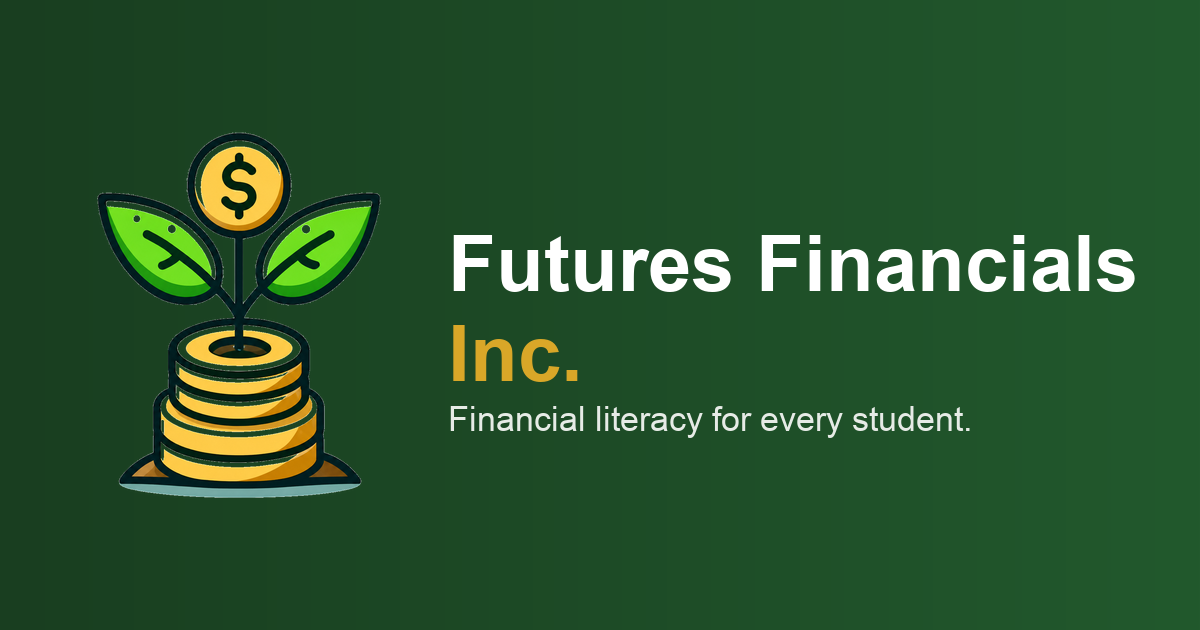
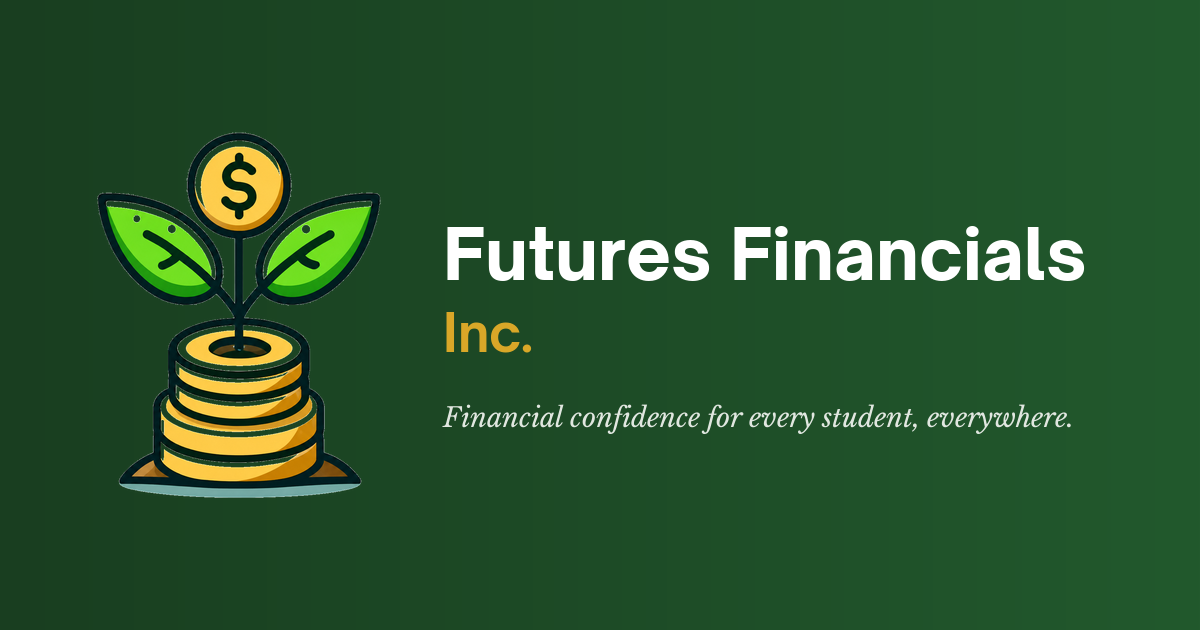
Fill in meta descriptions, restyle OG share image, add robots.txt/sitemap
Replace the [META DESCRIPTION PLACEHOLDER] text on every page with a
real description grounded in that page's existing copy (used for
meta description, og:description, and twitter:description alike).

Rebuild the social share image using the site's actual brand fonts
(Open Sauce One for the wordmark, Libre Baskerville italic for the
tagline) instead of a generic system font, so link previews in
Messages/iMessage/social apps match the site's look.

Add robots.txt and sitemap.xml (16 clean-URL pages) since they were
missing and are standard for a production site on a real domain.

Changed region(s): [[0.37, 0.3619, 0.9558, 0.6032], [0.37, 0.6333, 0.8942, 0.6937]]

diff --git a/about-us.html b/about-us.html
@@ -4,7 +4,7 @@
   <meta charset="UTF-8" />
   <meta name="viewport" content="width=device-width, initial-scale=1.0" />
   <title>Futures Financials Inc. — About Us</title>
-  <meta name="description" content="[META DESCRIPTION PLACEHOLDER]" />
+  <meta name="description" content="Futures Financials believes in the power of youth to lead change. Learn how our student-run nonprofit is making financial literacy accessible to every student." />
   <link rel="stylesheet" href="css/styles.css" />
 
   <!-- Favicons -->
@@ -21,7 +21,7 @@
   <meta property="og:type" content="website" />
   <meta property="og:site_name" content="Futures Financials Inc." />
   <meta property="og:title" content="Futures Financials Inc. — About Us" />
-  <meta property="og:description" content="[META DESCRIPTION PLACEHOLDER]" />
+  <meta property="og:description" content="Futures Financials believes in the power of youth to lead change. Learn how our student-run nonprofit is making financial literacy accessible to every student." />
   <meta property="og:image" content="https://futuresfinancials.org/images/og-image.png" />
   <meta property="og:image:width" content="1200" />
   <meta property="og:image:height" content="630" />
@@ -30,7 +30,7 @@
   <!-- Twitter -->
   <meta name="twitter:card" content="summary_large_image" />
   <meta name="twitter:title" content="Futures Financials Inc. — About Us" />
-  <meta name="twitter:description" content="[META DESCRIPTION PLACEHOLDER]" />
+  <meta name="twitter:description" content="Futures Financials believes in the power of youth to lead change. Learn how our student-run nonprofit is making financial literacy accessible to every student." />
   <meta name="twitter:image" content="https://futuresfinancials.org/images/og-image.png" />
 
   <!-- Organization structured data (for Google logo in search results) -->

diff --git a/impact.html b/impact.html
@@ -4,7 +4,7 @@
   <meta charset="UTF-8" />
   <meta name="viewport" content="width=device-width, initial-scale=1.0" />
   <title>Futures Financials Inc. — Impact</title>
-  <meta name="description" content="[META DESCRIPTION PLACEHOLDER]" />
+  <meta name="description" content="Futures Financials' impact: 10,000+ students reached, 50+ schools and libraries, 100+ teach-in sessions, and 18 chapters across 7 countries since 2022." />
   <link rel="stylesheet" href="css/styles.css" />
 
   <!-- Favicons -->
@@ -21,7 +21,7 @@
   <meta property="og:type" content="website" />
   <meta property="og:site_name" content="Futures Financials Inc." />
   <meta property="og:title" content="Futures Financials Inc. — Impact" />
-  <meta property="og:description" content="[META DESCRIPTION PLACEHOLDER]" />
+  <meta property="og:description" content="Futures Financials' impact: 10,000+ students reached, 50+ schools and libraries, 100+ teach-in sessions, and 18 chapters across 7 countries since 2022." />
   <meta property="og:image" content="https://futuresfinancials.org/images/og-image.png" />
   <meta property="og:image:width" content="1200" />
   <meta property="og:image:height" content="630" />
@@ -30,7 +30,7 @@
   <!-- Twitter -->
   <meta name="twitter:card" content="summary_large_image" />
   <meta name="twitter:title" content="Futures Financials Inc. — Impact" />
-  <meta name="twitter:description" content="[META DESCRIPTION PLACEHOLDER]" />
+  <meta name="twitter:description" content="Futures Financials' impact: 10,000+ students reached, 50+ schools and libraries, 100+ teach-in sessions, and 18 chapters across 7 countries since 2022." />
   <meta name="twitter:image" content="https://futuresfinancials.org/images/og-image.png" />
 
   <!-- Organization structured data (for Google logo in search results) -->

diff --git a/index.html b/index.html
@@ -4,7 +4,7 @@
   <meta charset="UTF-8" />
   <meta name="viewport" content="width=device-width, initial-scale=1.0" />
   <title>Futures Financials Inc. — Home</title>
-  <meta name="description" content="[META DESCRIPTION PLACEHOLDER]" />
+  <meta name="description" content="Futures Financials Inc. is a student-led nonprofit delivering hands-on financial literacy education to 10,000+ students across 18 chapters in 7 countries." />
   <link rel="stylesheet" href="css/styles.css" />
 
   <!-- Favicons -->
@@ -21,7 +21,7 @@
   <meta property="og:type" content="website" />
   <meta property="og:site_name" content="Futures Financials Inc." />
   <meta property="og:title" content="Futures Financials Inc. — Home" />
-  <meta property="og:description" content="[META DESCRIPTION PLACEHOLDER]" />
+  <meta property="og:description" content="Futures Financials Inc. is a student-led nonprofit delivering hands-on financial literacy education to 10,000+ students across 18 chapters in 7 countries." />
   <meta property="og:image" content="https://futuresfinancials.org/images/og-image.png" />
   <meta property="og:image:width" content="1200" />
   <meta property="og:image:height" content="630" />
@@ -30,7 +30,7 @@
   <!-- Twitter -->
   <meta name="twitter:card" content="summary_large_image" />
   <meta name="twitter:title" content="Futures Financials Inc. — Home" />
-  <meta name="twitter:description" content="[META DESCRIPTION PLACEHOLDER]" />
+  <meta name="twitter:description" content="Futures Financials Inc. is a student-led nonprofit delivering hands-on financial literacy education to 10,000+ students across 18 chapters in 7 countries." />
   <meta name="twitter:image" content="https://futuresfinancials.org/images/og-image.png" />
 
   <!-- Organization structured data (for Google logo in search results) -->

diff --git a/media.html b/media.html
@@ -4,7 +4,7 @@
   <meta charset="UTF-8" />
   <meta name="viewport" content="width=device-width, initial-scale=1.0" />
   <title>Futures Financials Inc. — In the News</title>
-  <meta name="description" content="[META DESCRIPTION PLACEHOLDER]" />
+  <meta name="description" content="Media coverage of Futures Financials Inc., from national financial education organizations to local TV, podcasts, and press features." />
   <link rel="stylesheet" href="css/styles.css" />
 
   <!-- Favicons -->
@@ -21,7 +21,7 @@
   <meta property="og:type" content="website" />
   <meta property="og:site_name" content="Futures Financials Inc." />
   <meta property="og:title" content="Futures Financials Inc. — In the News" />
-  <meta property="og:description" content="[META DESCRIPTION PLACEHOLDER]" />
+  <meta property="og:description" content="Media coverage of Futures Financials Inc., from national financial education organizations to local TV, podcasts, and press features." />
   <meta property="og:image" content="https://futuresfinancials.org/images/og-image.png" />
   <meta property="og:image:width" content="1200" />
   <meta property="og:image:height" content="630" />
@@ -30,7 +30,7 @@
   <!-- Twitter -->
   <meta name="twitter:card" content="summary_large_image" />
   <meta name="twitter:title" content="Futures Financials Inc. — In the News" />
-  <meta name="twitter:description" content="[META DESCRIPTION PLACEHOLDER]" />
+  <meta name="twitter:description" content="Media coverage of Futures Financials Inc., from national financial education organizations to local TV, podcasts, and press features." />
   <meta name="twitter:image" content="https://futuresfinancials.org/images/og-image.png" />
 
   <!-- Organization structured data (for Google logo in search results) -->

diff --git a/meet-the-team.html b/meet-the-team.html
@@ -4,7 +4,7 @@
   <meta charset="UTF-8" />
   <meta name="viewport" content="width=device-width, initial-scale=1.0" />
   <title>Futures Financials Inc. — Meet the Executive Team</title>
-  <meta name="description" content="[META DESCRIPTION PLACEHOLDER]" />
+  <meta name="description" content="Meet the youth-led executive team behind Futures Financials, the Founding Officers who built the nonprofit's curriculum, partnerships, and global chapters." />
   <link rel="stylesheet" href="css/styles.css" />
 
   <!-- Favicons -->
@@ -21,7 +21,7 @@
   <meta property="og:type" content="website" />
   <meta property="og:site_name" content="Futures Financials Inc." />
   <meta property="og:title" content="Futures Financials Inc. — Meet the Executive Team" />
-  <meta property="og:description" content="[META DESCRIPTION PLACEHOLDER]" />
+  <meta property="og:description" content="Meet the youth-led executive team behind Futures Financials, the Founding Officers who built the nonprofit's curriculum, partnerships, and global chapters." />
   <meta property="og:image" content="https://futuresfinancials.org/images/og-image.png" />
   <meta property="og:image:width" content="1200" />
   <meta property="og:image:height" content="630" />
@@ -30,7 +30,7 @@
   <!-- Twitter -->
   <meta name="twitter:card" content="summary_large_image" />
   <meta name="twitter:title" content="Futures Financials Inc. — Meet the Executive Team" />
-  <meta name="twitter:description" content="[META DESCRIPTION PLACEHOLDER]" />
+  <meta name="twitter:description" content="Meet the youth-led executive team behind Futures Financials, the Founding Officers who built the nonprofit's curriculum, partnerships, and global chapters." />
   <meta name="twitter:image" content="https://futuresfinancials.org/images/og-image.png" />
 
   <!-- Organization structured data (for Google logo in search results) -->

diff --git a/our-partners.html b/our-partners.html
@@ -4,7 +4,7 @@
   <meta charset="UTF-8" />
   <meta name="viewport" content="width=device-width, initial-scale=1.0" />
   <title>Futures Financials Inc. — Our Partners</title>
-  <meta name="description" content="[META DESCRIPTION PLACEHOLDER]" />
+  <meta name="description" content="Futures Financials partners with universities, community banks, and national financial education nonprofits to expand access to financial literacy." />
   <link rel="stylesheet" href="css/styles.css" />
 
   <!-- Favicons -->
@@ -21,7 +21,7 @@
   <meta property="og:type" content="website" />
   <meta property="og:site_name" content="Futures Financials Inc." />
   <meta property="og:title" content="Futures Financials Inc. — Our Partners" />
-  <meta property="og:description" content="[META DESCRIPTION PLACEHOLDER]" />
+  <meta property="og:description" content="Futures Financials partners with universities, community banks, and national financial education nonprofits to expand access to financial literacy." />
   <meta property="og:image" content="https://futuresfinancials.org/images/og-image.png" />
   <meta property="og:image:width" content="1200" />
   <meta property="og:image:height" content="630" />
@@ -30,7 +30,7 @@
   <!-- Twitter -->
   <meta name="twitter:card" content="summary_large_image" />
   <meta name="twitter:title" content="Futures Financials Inc. — Our Partners" />
-  <meta name="twitter:description" content="[META DESCRIPTION PLACEHOLDER]" />
+  <meta name="twitter:description" content="Futures Financials partners with universities, community banks, and national financial education nonprofits to expand access to financial literacy." />
   <meta name="twitter:image" content="https://futuresfinancials.org/images/og-image.png" />
 
   <!-- Organization structured data (for Google logo in search results) -->

diff --git a/our-story.html b/our-story.html
@@ -4,7 +4,7 @@
   <meta charset="UTF-8" />
   <meta name="viewport" content="width=device-width, initial-scale=1.0" />
   <title>Futures Financials Inc. — Our Story</title>
-  <meta name="description" content="[META DESCRIPTION PLACEHOLDER]" />
+  <meta name="description" content="Futures Financials began at a kitchen table in 2022 with one student who refused to stop asking questions about money. Read how it grew from there." />
   <link rel="stylesheet" href="css/styles.css" />
 
   <!-- Favicons -->
@@ -21,7 +21,7 @@
   <meta property="og:type" content="website" />
   <meta property="og:site_name" content="Futures Financials Inc." />
   <meta property="og:title" content="Futures Financials Inc. — Our Story" />
-  <meta property="og:description" content="[META DESCRIPTION PLACEHOLDER]" />
+  <meta property="og:description" content="Futures Financials began at a kitchen table in 2022 with one student who refused to stop asking questions about money. Read how it grew from there." />
   <meta property="og:image" content="https://futuresfinancials.org/images/og-image.png" />
   <meta property="og:image:width" content="1200" />
   <meta property="og:image:height" content="630" />
@@ -30,7 +30,7 @@
   <!-- Twitter -->
   <meta name="twitter:card" content="summary_large_image" />
   <meta name="twitter:title" content="Futures Financials Inc. — Our Story" />
-  <meta name="twitter:description" content="[META DESCRIPTION PLACEHOLDER]" />
+  <meta name="twitter:description" content="Futures Financials began at a kitchen table in 2022 with one student who refused to stop asking questions about money. Read how it grew from there." />
   <meta name="twitter:image" content="https://futuresfinancials.org/images/og-image.png" />
 
   <!-- Organization structured data (for Google logo in search results) -->

diff --git a/programs.html b/programs.html
@@ -4,7 +4,7 @@
   <meta charset="UTF-8" />
   <meta name="viewport" content="width=device-width, initial-scale=1.0" />
   <title>Futures Financials Inc. — Programs</title>
-  <meta name="description" content="[META DESCRIPTION PLACEHOLDER]" />
+  <meta name="description" content="Explore Futures Financials' three flagship programs, built to turn students into financially confident decision-makers through hands-on, peer-led education." />
   <link rel="stylesheet" href="css/styles.css" />
 
   <!-- Favicons -->
@@ -21,7 +21,7 @@
   <meta property="og:type" content="website" />
   <meta property="og:site_name" content="Futures Financials Inc." />
   <meta property="og:title" content="Futures Financials Inc. — Programs" />
-  <meta property="og:description" content="[META DESCRIPTION PLACEHOLDER]" />
+  <meta property="og:description" content="Explore Futures Financials' three flagship programs, built to turn students into financially confident decision-makers through hands-on, peer-led education." />
   <meta property="og:image" content="https://futuresfinancials.org/images/og-image.png" />
   <meta property="og:image:width" content="1200" />
   <meta property="og:image:height" content="630" />
@@ -30,7 +30,7 @@
   <!-- Twitter -->
   <meta name="twitter:card" content="summary_large_image" />
   <meta name="twitter:title" content="Futures Financials Inc. — Programs" />
-  <meta name="twitter:description" content="[META DESCRIPTION PLACEHOLDER]" />
+  <meta name="twitter:description" content="Explore Futures Financials' three flagship programs, built to turn students into financially confident decision-makers through hands-on, peer-led education." />
   <meta name="twitter:image" content="https://futuresfinancials.org/images/og-image.png" />
 
   <!-- Organization structured data (for Google logo in search results) -->

diff --git a/start-a-chapter.html b/start-a-chapter.html
@@ -4,7 +4,7 @@
   <meta charset="UTF-8" />
   <meta name="viewport" content="width=device-width, initial-scale=1.0" />
   <title>Futures Financials Inc. — Start a Chapter</title>
-  <meta name="description" content="[META DESCRIPTION PLACEHOLDER]" />
+  <meta name="description" content="Start a Futures Financials chapter in your community: a student-run local branch dedicated to expanding financial literacy where you live." />
   <link rel="stylesheet" href="css/styles.css" />
 
   <!-- Favicons -->
@@ -21,7 +21,7 @@
   <meta property="og:type" content="website" />
   <meta property="og:site_name" content="Futures Financials Inc." />
   <meta property="og:title" content="Futures Financials Inc. — Start a Chapter" />
-  <meta property="og:description" content="[META DESCRIPTION PLACEHOLDER]" />
+  <meta property="og:description" content="Start a Futures Financials chapter in your community: a student-run local branch dedicated to expanding financial literacy where you live." />
   <meta property="og:image" content="https://futuresfinancials.org/images/og-image.png" />
   <meta property="og:image:width" content="1200" />
   <meta property="og:image:height" content="630" />
@@ -30,7 +30,7 @@
   <!-- Twitter -->
   <meta name="twitter:card" content="summary_large_image" />
   <meta name="twitter:title" content="Futures Financials Inc. — Start a Chapter" />
-  <meta name="twitter:description" content="[META DESCRIPTION PLACEHOLDER]" />
+  <meta name="twitter:description" content="Start a Futures Financials chapter in your community: a student-run local branch dedicated to expanding financial literacy where you live." />
   <meta name="twitter:image" content="https://futuresfinancials.org/images/og-image.png" />
 
   <!-- Organization structured data (for Google logo in search results) -->

diff --git a/success-stories.html b/success-stories.html
@@ -4,7 +4,7 @@
   <meta charset="UTF-8" />
   <meta name="viewport" content="width=device-width, initial-scale=1.0" />
   <title>Futures Financials Inc. — Success Stories</title>
-  <meta name="description" content="[META DESCRIPTION PLACEHOLDER]" />
+  <meta name="description" content="Real students share how Futures Financials' financial literacy programs changed what they believe is possible for their futures, in their own words." />
   <link rel="stylesheet" href="css/styles.css" />
 
   <!-- Favicons -->
@@ -21,7 +21,7 @@
   <meta property="og:type" content="website" />
   <meta property="og:site_name" content="Futures Financials Inc." />
   <meta property="og:title" content="Futures Financials Inc. — Success Stories" />
-  <meta property="og:description" content="[META DESCRIPTION PLACEHOLDER]" />
+  <meta property="og:description" content="Real students share how Futures Financials' financial literacy programs changed what they believe is possible for their futures, in their own words." />
   <meta property="og:image" content="https://futuresfinancials.org/images/og-image.png" />
   <meta property="og:image:width" content="1200" />
   <meta property="og:image:height" content="630" />
@@ -30,7 +30,7 @@
   <!-- Twitter -->
   <meta name="twitter:card" content="summary_large_image" />
   <meta name="twitter:title" content="Futures Financials Inc. — Success Stories" />
-  <meta name="twitter:description" content="[META DESCRIPTION PLACEHOLDER]" />
+  <meta name="twitter:description" content="Real students share how Futures Financials' financial literacy programs changed what they believe is possible for their futures, in their own words." />
   <meta name="twitter:image" content="https://futuresfinancials.org/images/og-image.png" />
 
   <!-- Organization structured data (for Google logo in search results) -->

diff --git a/team-aren.html b/team-aren.html
@@ -4,7 +4,7 @@
   <meta charset="UTF-8" />
   <meta name="viewport" content="width=device-width, initial-scale=1.0" />
   <title>Futures Financials Inc. — Aren Inan</title>
-  <meta name="description" content="[META DESCRIPTION PLACEHOLDER]" />
+  <meta name="description" content="Aren Inan is Chief Financial Officer and co-founder of Futures Financials, helping build the curriculum that has reached 10,000+ students nationwide." />
   <link rel="stylesheet" href="css/styles.css" />
 
   <!-- Favicons -->
@@ -21,7 +21,7 @@
   <meta property="og:type" content="website" />
   <meta property="og:site_name" content="Futures Financials Inc." />
   <meta property="og:title" content="Futures Financials Inc. — Aren Inan" />
-  <meta property="og:description" content="[META DESCRIPTION PLACEHOLDER]" />
+  <meta property="og:description" content="Aren Inan is Chief Financial Officer and co-founder of Futures Financials, helping build the curriculum that has reached 10,000+ students nationwide." />
   <meta property="og:image" content="https://futuresfinancials.org/images/og-image.png" />
   <meta property="og:image:width" content="1200" />
   <meta property="og:image:height" content="630" />
@@ -30,7 +30,7 @@
   <!-- Twitter -->
   <meta name="twitter:card" content="summary_large_image" />
   <meta name="twitter:title" content="Futures Financials Inc. — Aren Inan" />
-  <meta name="twitter:description" content="[META DESCRIPTION PLACEHOLDER]" />
+  <meta name="twitter:description" content="Aren Inan is Chief Financial Officer and co-founder of Futures Financials, helping build the curriculum that has reached 10,000+ students nationwide." />
   <meta name="twitter:image" content="https://futuresfinancials.org/images/og-image.png" />
 
   <!-- Organization structured data (for Google logo in search results) -->

diff --git a/team-danny.html b/team-danny.html
@@ -4,7 +4,7 @@
   <meta charset="UTF-8" />
   <meta name="viewport" content="width=device-width, initial-scale=1.0" />
   <title>Futures Financials Inc. — Danny Jang</title>
-  <meta name="description" content="[META DESCRIPTION PLACEHOLDER]" />
+  <meta name="description" content="Danny Jang founded Futures Financials in 2022 and serves as Founder &amp; Executive Chairman, guiding the nonprofit's strategy and global growth." />
   <link rel="stylesheet" href="css/styles.css" />
 
   <!-- Favicons -->
@@ -21,7 +21,7 @@
   <meta property="og:type" content="website" />
   <meta property="og:site_name" content="Futures Financials Inc." />
   <meta property="og:title" content="Futures Financials Inc. — Danny Jang" />
-  <meta property="og:description" content="[META DESCRIPTION PLACEHOLDER]" />
+  <meta property="og:description" content="Danny Jang founded Futures Financials in 2022 and serves as Founder &amp; Executive Chairman, guiding the nonprofit's strategy and global growth." />
   <meta property="og:image" content="https://futuresfinancials.org/images/og-image.png" />
   <meta property="og:image:width" content="1200" />
   <meta property="og:image:height" content="630" />
@@ -30,7 +30,7 @@
   <!-- Twitter -->
   <meta name="twitter:card" content="summary_large_image" />
   <meta name="twitter:title" content="Futures Financials Inc. — Danny Jang" />
-  <meta name="twitter:description" content="[META DESCRIPTION PLACEHOLDER]" />
+  <meta name="twitter:description" content="Danny Jang founded Futures Financials in 2022 and serves as Founder &amp; Executive Chairman, guiding the nonprofit's strategy and global growth." />
   <meta name="twitter:image" content="https://futuresfinancials.org/images/og-image.png" />
 
   <!-- Organization structured data (for Google logo in search results) -->